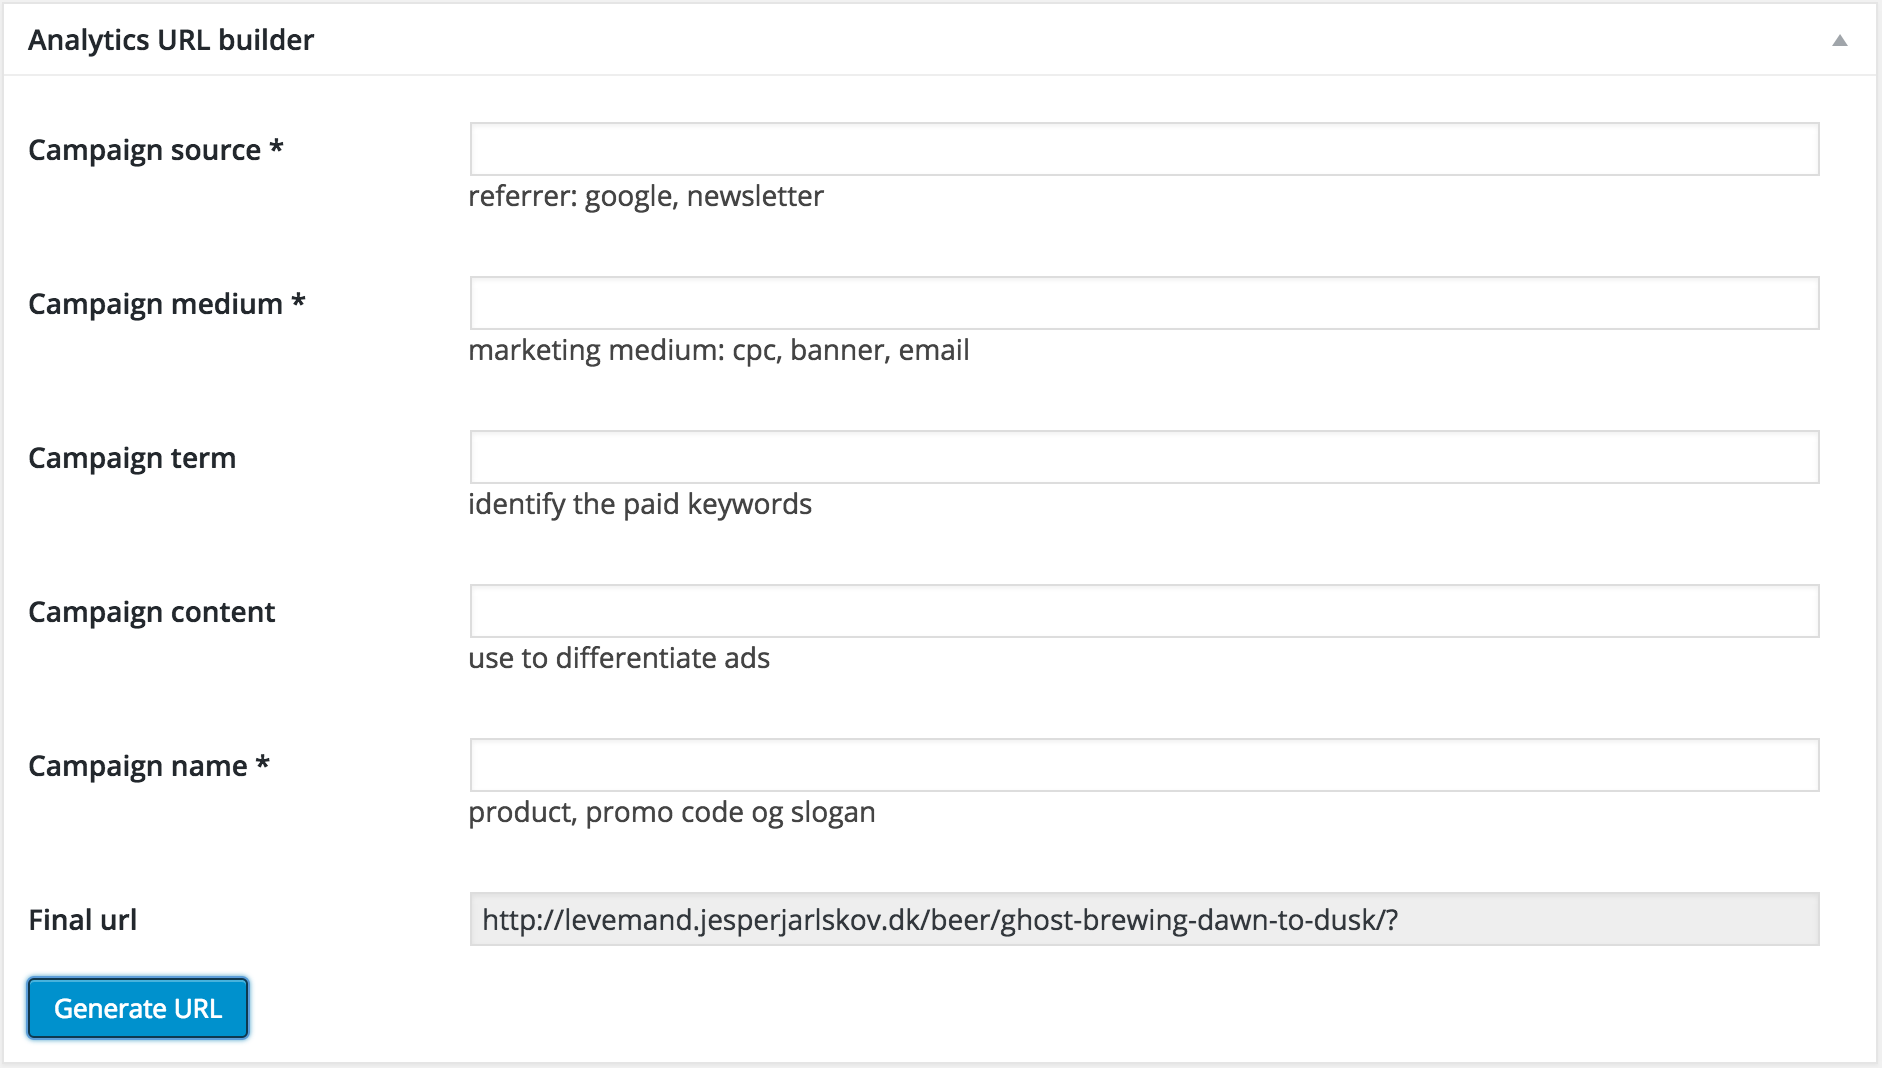
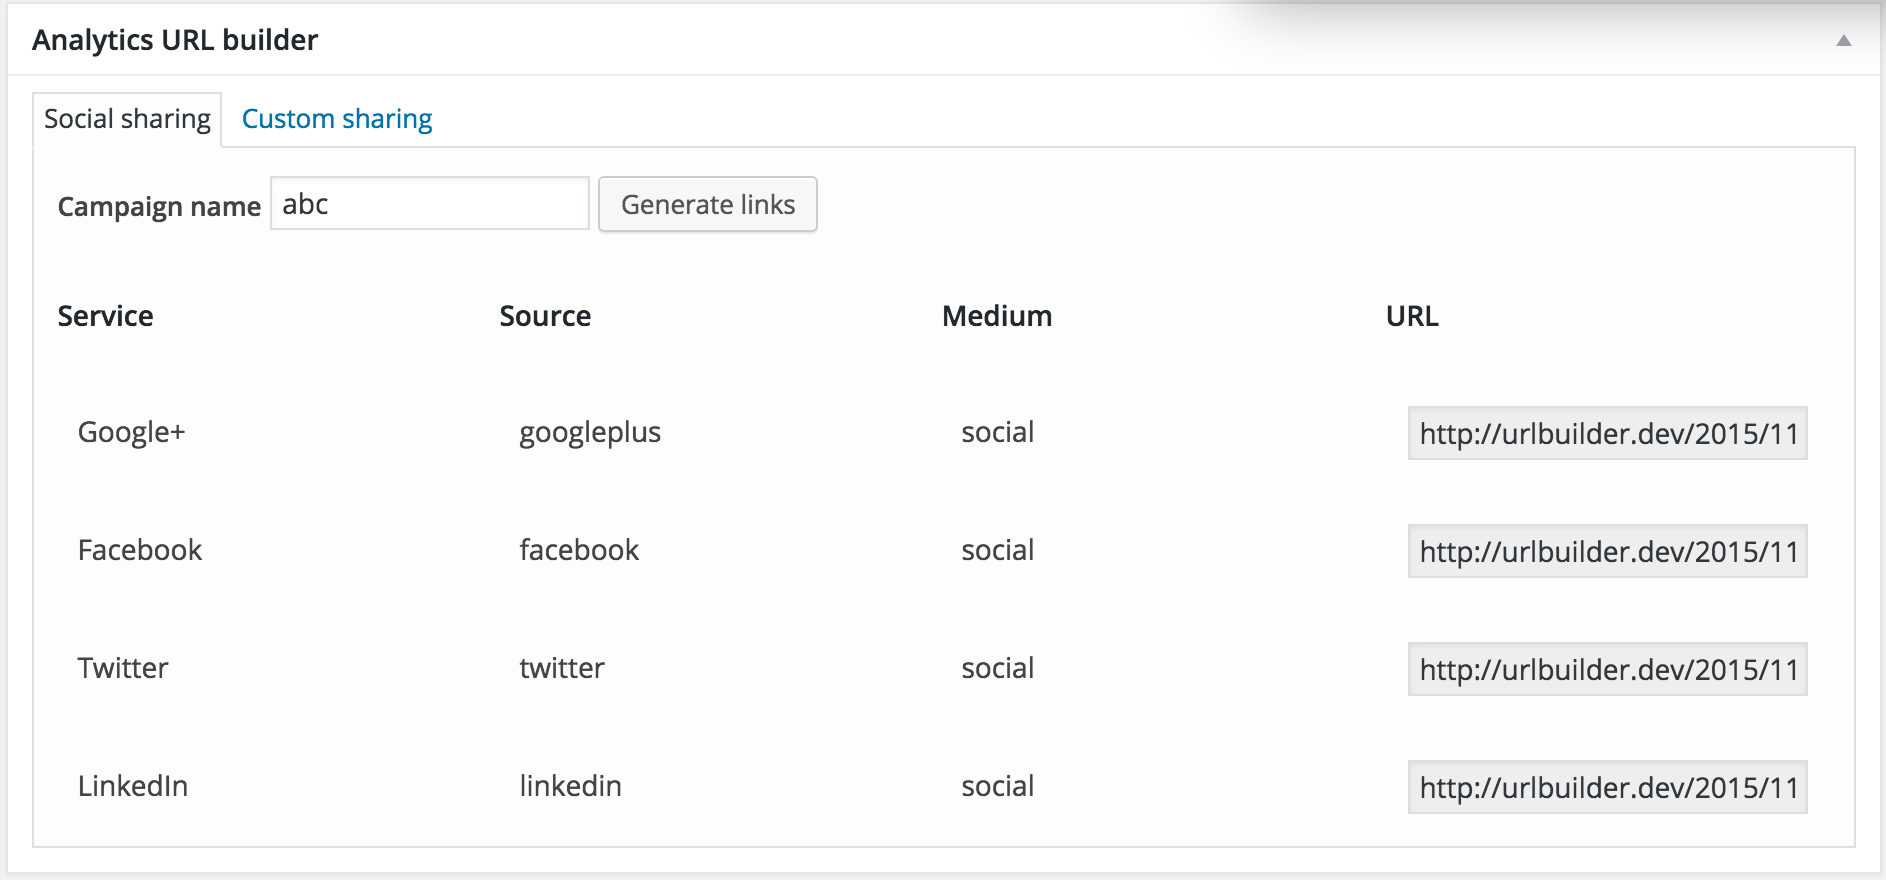
Add social sharing block

diff --git a/assets/url-builder-for-analytics.js b/assets/url-builder-for-analytics.js
@@ -1,0 +1,75 @@
+jQuery(document).ready( function($) {
+    // Implements tabs.
+    $('#url-builder-meta-box-tabs .hidden').removeClass('hidden');
+    $('#url-builder-meta-box-tabs').tabs({
+        activate: function( event, ui ) {
+            ui.newTab.addClass('tabs');
+            ui.oldTab.removeClass('tabs');
+        }
+    });
+
+    $( '.url_builder_url' ).click( function(e) {
+        this.select();
+    });
+
+    // Function for creating a shareable URL.
+    var urlBuilderCreateUrl = function( source, medium, campaign, term, content ) {
+        var parameters = {};
+
+        var base_url = jQuery( "input[name='post_url']" ).val();
+
+        parameters.utm_source = source;
+        parameters.utm_medium = medium;
+        parameters.utm_campaign = campaign;
+
+        if ( term && term.length ) {
+            parameters.utm_term = term;
+        }
+        if ( content && content.length ) {
+            parameters.utm_content = content;
+        }
+
+        return base_url + '?' + jQuery.param(parameters)
+    }
+
+    // Generate social share URLs.
+    $( '#url_builder_generate_social_links' ).click( function(e) {
+        e.preventDefault();
+
+        var campaignName = $( '#url_builder_campaign_name' ).val();
+
+        $( '.url_builder_social_row' ).each( function(id, row) {
+            var source = $( row ).find( '.url_builder_source' ).html();
+            var medium = $( row ).find( '.url_builder_medium' ).html();
+            var url = urlBuilderCreateUrl( source, medium, campaignName );
+
+            $( row ).find( 'input.sociallink' ).val( url );
+        });
+    });
+
+    // Generate custom share URL
+    jQuery( '#generate_analytics_url_submit' ).click( function(e) {
+        var source = '';
+        var medium = '';
+        var term = '';
+        var content = '';
+        var campaignName = '';
+
+        if ( jQuery("input[name='campaign_source']").val() !== '' ) {
+            source = jQuery( "input[name='campaign_source']" ).val();
+        }
+        if ( jQuery("input[name='campaign_medium']").val() !== '' ) {
+            medium = jQuery( "input[name='campaign_medium']" ).val();
+        }
+        if ( jQuery("input[name='campaign_term']").val() !== '' ) {
+            term = jQuery( "input[name='campaign_term']" ).val();
+        }
+        if ( jQuery("input[name='campaign_content']").val() !== '' ) {
+            content = jQuery( "input[name='campaign_content']" ).val();
+        }
+        if ( jQuery("input[name='campaign_name']").val() !== '' ) {
+            campaignName = jQuery( "input[name='campaign_name']" ).val();
+        }
+        jQuery( '#final_url' ).val( urlBuilderCreateUrl( source, medium, campaignName, term, content ));
+    });
+});

diff --git a/templates/meta_box_post_form.php b/templates/meta_box_post_form.php
@@ -1,0 +1,108 @@
+<?php
+    $social_services = array(
+        'googleplus' => 'Google+',
+        'facebook' => 'Facebook',
+        'twitter' => 'Twitter',
+        'linkedin' => 'LinkedIn',
+    );
+?>
+<div id="url-builder-meta-box-tabs" class="categorydiv">
+    <ul class="category-tabs">
+        <li class="tabs"><a href="#socialtab"><?= __( 'Social sharing', 'url-builder-for-analytics' ); ?></a></li>
+        <li><a href="#customtab"><?= __( 'Custom sharing', 'url-builder-for-analytics' ); ?></a></li>
+    </ul>
+    <div class="tabs-panel" id="socialtab" style="max-height: 100%;">
+        <p>
+            <label for="url_builder_campaign_name"><strong><?= __( 'Campaign name', 'url-builder-for-analytics' ); ?></strong></label>
+            <input type="text" name="url_builder_campaign_name" id="url_builder_campaign_name">
+            <input type="button" id="url_builder_generate_social_links" class="button" value="<?= __( 'Generate links', 'url-builder-for-analytics' ); ?>">
+        </p>
+        <table class="form-table">
+            <tbody>
+                <tr>
+                    <th scope="row"><?= __( 'Service', 'url-builder-for-analytics'); ?></th>
+                    <th><?= __( 'Source', 'url-builder-for-analytics' ); ?></th>
+                    <th><?= __( 'Medium', 'url-builder-for-analytics' ); ?></th>
+                    <th><?= __( 'URL', 'url-builder-for-analytics' ); ?></th>
+                </tr>
+                <?php foreach ($social_services as $slug => $sitename): ?>
+                    <tr class="url_builder_social_row">
+                        <td scope="row" class="url_builder_sitename"><?= $sitename; ?></td>
+                        <td class="url_builder_source"><?= $slug; ?></td>
+                        <td class="url_builder_medium">social</td>
+                        <td><input type="text" name="<?= $slug; ?>_final_url" class="url_builder_url large-text sociallink" readonly></td>
+                    </tr>
+                <?php endforeach; ?>
+            </tbody>
+        </table>
+    </div>
+    <div class="hidden tabs-panel" id="customtab" style="max-height: 100%">
+        <table class="form-table">
+            <tbody>
+                <tr>
+                    <th scope="row">
+                        <label for="campaign_source"><?= __( 'Campaign source', 'url-builder-for-analytics' ); ?> *</label>
+                    </th>
+                    <td>
+                        <input type="text" name="campaign_source" class="large-text">
+                        <br>
+                        <?= __( 'referrer: google, newsletter', 'url-builder-for-analytics' ); ?>
+                    </td>
+                </tr>
+                <tr>
+                    <th scope="row">
+                        <label for="campaign_medium"><?= __( 'Campaign medium', 'url-builder-for-analytics' ); ?> *</label>
+                    </th>
+                    <td>
+                        <input type="text" name="campaign_medium" class="large-text">
+                        <br>
+                        <?= __( 'marketing medium: cpc, banner, email', 'url-builder-for-analytics' ); ?>
+                    </td>
+                </tr>
+                <tr>
+                    <th scope="row">
+                        <label for="campaign_term"><?= __( 'Campaign term', 'url-builder-for-analytics' ); ?></label>
+                    </th>
+                    <td>
+                        <input type="text" name="campaign_term" class="large-text">
+                        <br>
+                        <?= __( 'identify the paid keywords', 'url-builder-for-analytics' ); ?>
+                    </td>
+                </tr>
+                <tr>
+                    <th scope="row">
+                    <label for="campaign_content"><?= __( 'Campaign content', 'url-builder-for-analytics' ); ?></label>
+                    </th>
+                    <td>
+                        <input type="text" name="campaign_content" class="large-text">
+                        <br>
+                        <?= __( 'use to differentiate ads', 'url-builder-for-analytics' ); ?>
+                    </td>
+                </tr>
+                <tr>
+                    <th scope="row">
+                        <label for="campaign_name"><?= __( 'Campaign name', 'url-builder-for-analytics' ); ?> *</label>
+                    </th>
+                    <td>
+                        <input type="text" name="campaign_name" class="large-text">
+                        <br>
+                        <?= __( 'product, promo code og slogan', 'url-builder-for-analytics' ); ?>
+                    </td>
+                </tr>
+                <tr>
+                    <th scope="row">
+                        <label for="final_url"><?= __( 'Final url', 'url-builder-for-analytics' ); ?></label>
+                    </th>
+                    <td>
+                        <input type="text" name="final_url" id="final_url" class="url_builder_url large-text" readonly>
+                    </td>
+                </tr>
+            </tbody>
+        </table>
+        <p>
+            <input name="generate_analytics_submit" type="button" class="button button-primary button-large" id="generate_analytics_url_submit" value="<?= __( 'Generate URL', 'url-builder-for-analytics' ); ?>">
+        </p>
+    </div>
+</div>
+<input type="hidden" name="post_url" value="<?= get_permalink(); ?>">
+            

diff --git a/url-builder-for-analytics.php b/url-builder-for-analytics.php
@@ -3,7 +3,7 @@
  * Plugin Name: URL Builder for Analytics
  * Plugin URI: https://github.com/Jarlskov/google-analytics-url-builder
  * Description: This plugin adds an easy way to create a Google Analytics URL for your posts.
- * Version: 0.0.1
+ * Version: 1.1.0
  * Author: Jesper Jarlskov
  * Author URI: http://jesperjarlskov.dk
  * Text Domain: url-builder-for-analytics
@@ -33,6 +33,6 @@ function url_builder_post_meta_box() {
  * Outputs the HTML directly to the browser, WordPress style!
  */
 function url_builder_post_meta_box_render() {
-    include( __DIR__ . '/meta_box_post_form.php' );
-    wp_enqueue_script( 'url-builder-for-analytics', plugins_url() . '/url-builder-for-analytics/url-builder-for-analytics.js', 'jquery', '0.0.1', true );
+    include( __DIR__ . '/templates/meta_box_post_form.php' );
+    wp_enqueue_script( 'url-builder-for-analytics', plugins_url() . '/url-builder-for-analytics/assets/url-builder-for-analytics.js', array( 'jquery-ui-tabs' ), '0.0.1', true );
 }
